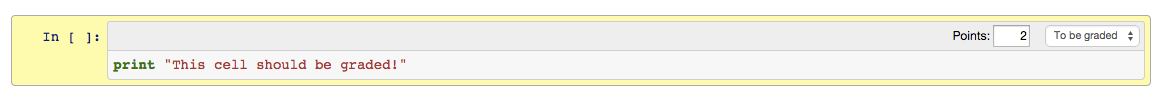
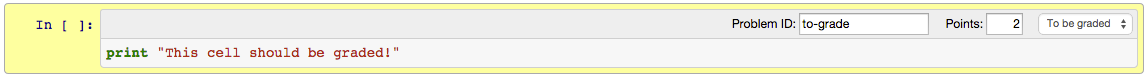
Update docs to include stuff about assignment writer and cell ids

diff --git a/docs/release-and-solution-versions.md b/docs/release-and-solution-versions.md
@@ -85,11 +85,13 @@ something like this:
 ```python
 c = get_config()
 c.NbConvertApp.export_format = 'notebook'
-c.Exporter.preprocessors = ['nbgrader.ReleasePreprocessor']
+c.NbConvertApp.writer_class = 'nbgrader.AssignmentWriter'
+c.Exporter.preprocessors = ['nbgrader.AssignmentPreprocessor']
 ```
 
-Which tells nbconvert to convert to notebook format, and to use the
-`ReleasePreprocessor` from nbgrader. Then, you would use two different
+Which tells nbconvert to convert to notebook format, to write out the
+converted file using `AssignmentWriter` from nbgrader, and to use the
+`AssignmentPreprocessor` from nbgrader. Then, you would use two different
 command line invocations to get either the release version or the
 solution version.
 
@@ -98,7 +100,7 @@ solution version.
 At the command line, run:
 
 ```bash
-ipython nbconvert master.ipynb --output=release.ipynb --ReleasePreprocessor.solution=False
+ipython nbconvert master.ipynb --output=release.ipynb --AssignmentPreprocessor.solution=False
 ```
 
 This will convert the `master.ipynb` notebook to a new notebook called
@@ -109,7 +111,7 @@ This will convert the `master.ipynb` notebook to a new notebook called
 At the command line, run:
 
 ```bash
-ipython nbconvert master.ipynb --output=solution.ipynb --ReleasePreprocessor.solution=True
+ipython nbconvert master.ipynb --output=solution.ipynb --AssignmentPreprocessor.solution=True
 ```
 
 This will convert the `master.ipynb` notebook to a new notebook called
@@ -117,23 +119,49 @@ This will convert the `master.ipynb` notebook to a new notebook called
 
 ## Conversion options
 
-The `ReleasePreprocessor` offers several conversion options that you
+### Assignment preprocessor
+
+The `AssignmentPreprocessor` offers several conversion options that you
 may find useful:
 
-* `ReleasePreprocessor.solution` -- boolean, whether a release version
+* `AssignmentPreprocessor.solution` -- boolean, whether a release version
   should be produced, or a solution version
-* `ReleasePreprocessor.header` -- path to a "header" notebook, whose
+* `AssignmentPreprocessor.header` -- path to a "header" notebook, whose
   cells will be inserted at the beginning of the assignment. These
   cells will be also processed like the master notebook cells, so you
   can still mark them as solution/release only and use templates.
-* `ReleasePreprocessor.footer` -- path to a "footer" notebook, whose
+* `AssignmentPreprocessor.footer` -- path to a "footer" notebook, whose
   cells will be appended to the end of the assignment. Like the
   header, hese cells will be also processed like the master notebook
   cells, so you can still mark them as solution/release only and use
   templates.
+* `AssignmentPreprocessor.title` -- the title of the assignment, which
+  can be used as a template variable name (see below).
 
 These options can be specified on the command line, or in the
 `ipython_nbconvert_config.py` configuration file.
+
+### Assignment writer
+
+The `AssignmentWriter` also offers conversion options that you may
+find useful:
+
+* `AssignmentWriter.build_director` -- where to save the outputted
+  files to. This can be useful if converting multiple notebooks at
+  once (e.g., for an assignment in which each notebook corresponds to
+  a different problem).
+* `AssignmentWriter.files` -- files that the notebook(s) depend on
+  (e.g. images)
+* `AssignmentWriter.save_rubric` -- whether to save out a JSON file
+  with information about the different parts of the problem and how
+  much each is worth.
+* `AssignmentWriter.rubric_file` -- the name of the file to which the
+  rubric should be saved, not including the ".json" extension.
+
+These options can be specified on the command line, or in the
+`ipython_nbconvert_config.py` configuration file.
+
+### Template variables
 
 Additionally, there are some handy templating variables that you can
 insert into any markdown cell in your document. The syntax them for
@@ -141,5 +169,5 @@ them is `{{ variable_name }}`.
 
 * `toc` -- a table of contents for the assignment, based on heading
   cells.
-* `points` -- the number of points that a particular problem or
-  subproblem is worth. This should ONLY be used within heading cells.
+* `title` -- the title of the assignment, as specified by
+  `AssignmentPreprocessor.title`.

diff --git a/docs/assignment-toolbar.md b/docs/assignment-toolbar.md
@@ -46,12 +46,17 @@ menu with a default value of "-". Other values include:
 * "Skip" -- this cell should not be included in either the release
   version or or the solution version of the assignment.
 
-If you select "To be graded" for a cell, it has two additional effects:
+If you select "To be graded" for a cell, it has a few additional
+effects:
 
 * The area around the cell will turn yellow, making it more visible to
   instructors and to students.
 * A text box labeled "Points" will appear. In this, you can mark how
   many points this part of the assignment is worth.
+* A text box labeled "Problem ID" will appear. In this, you can give
+  the problem that is to be graded a unique identifier. This id can be
+  used to produce a rubric of the various parts of the problem, and
+  also later down the line when autograding.
 
 Here is an example "To be graded" cell:
 
